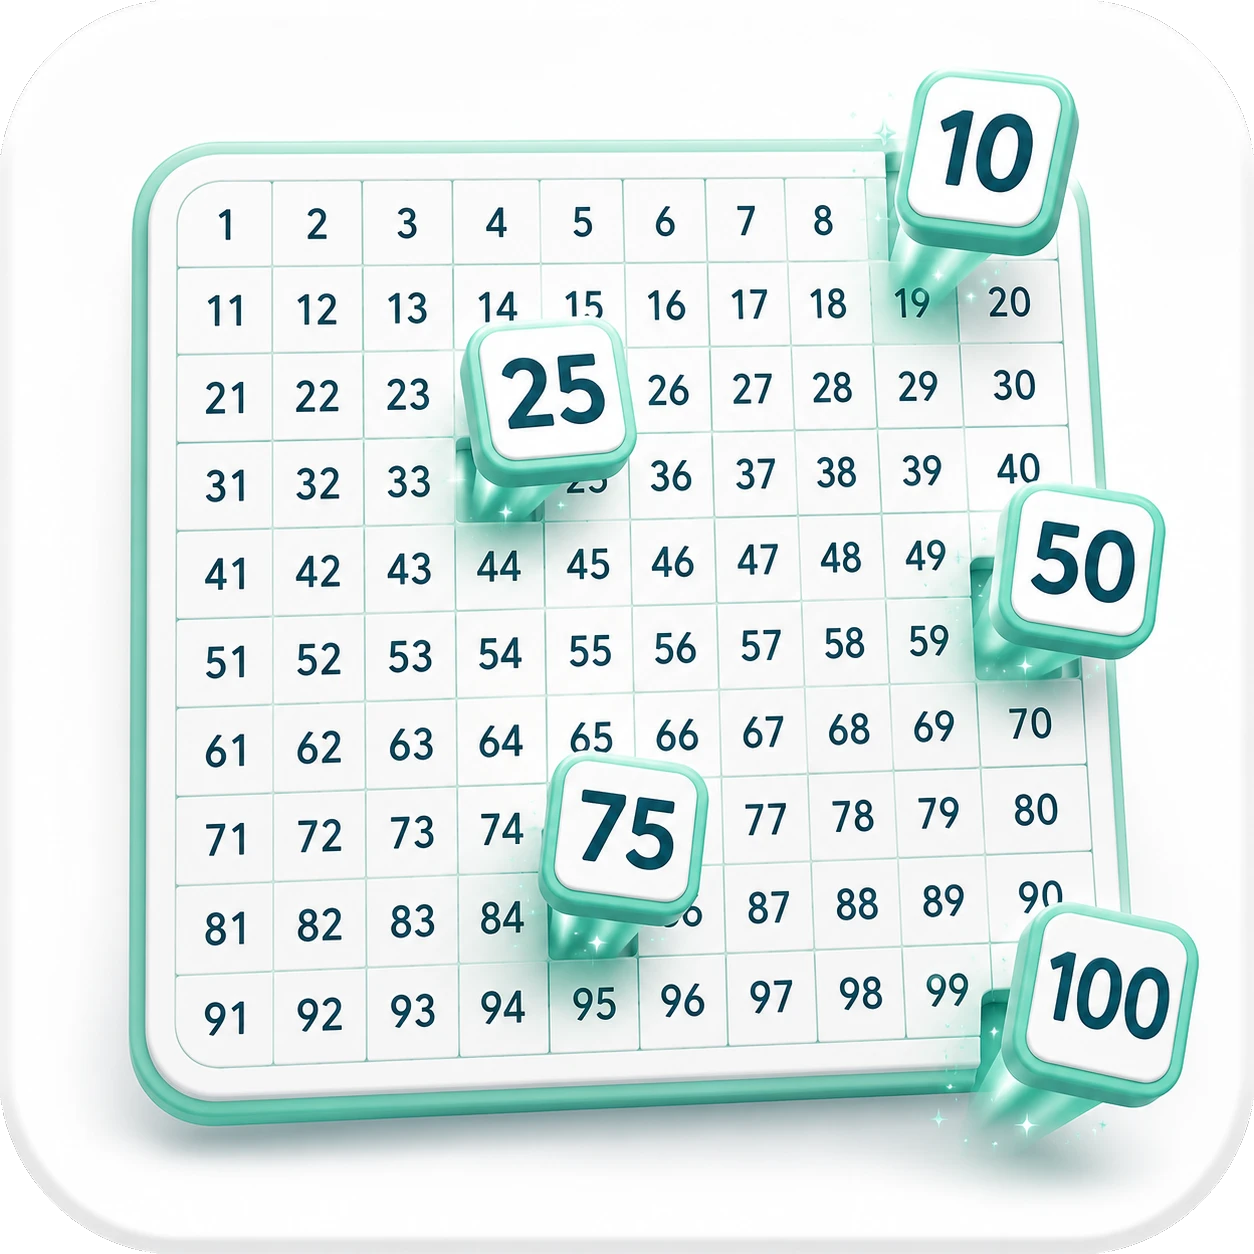
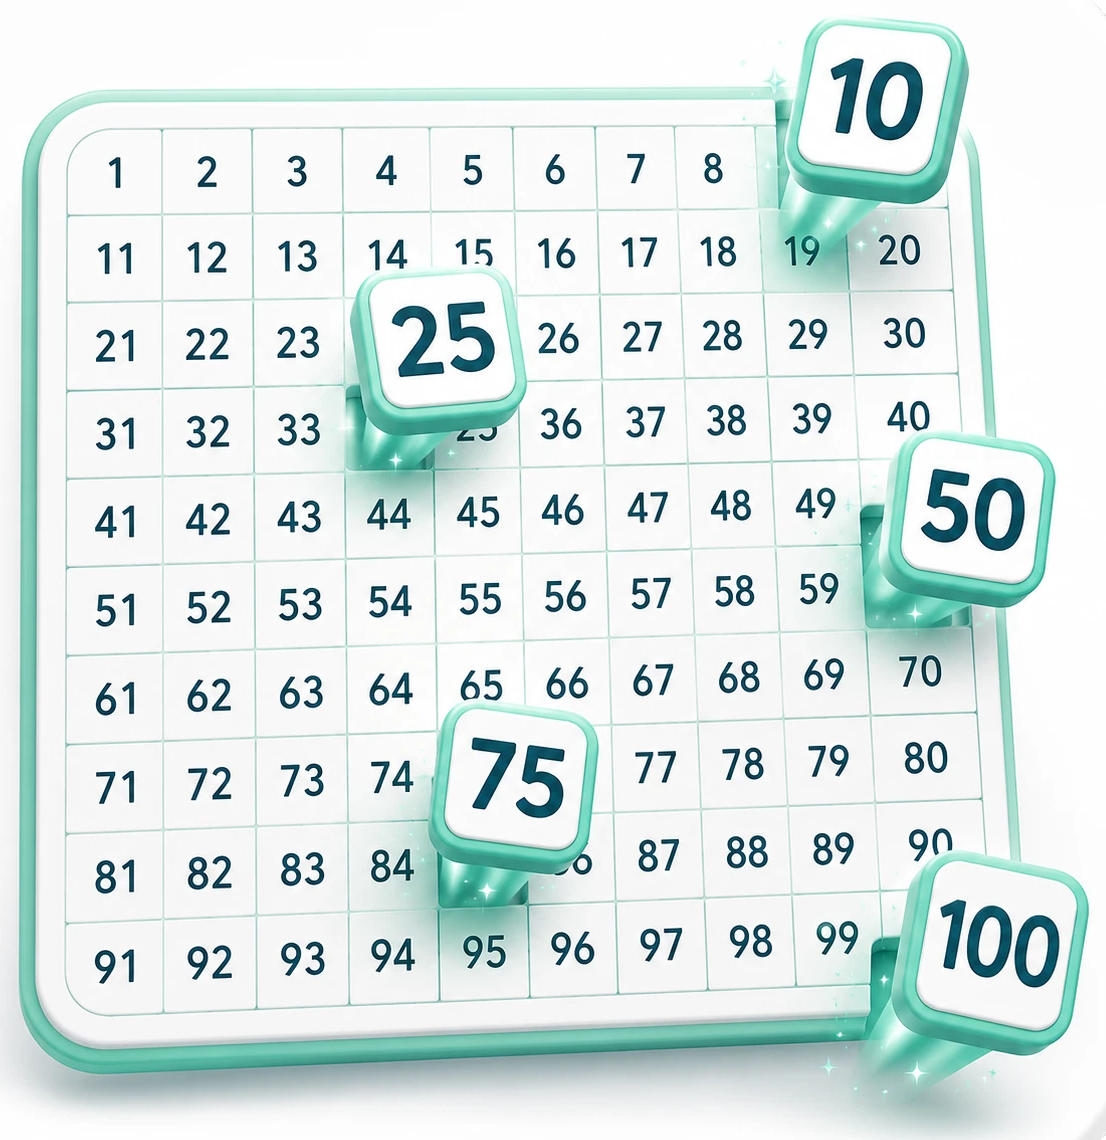
תמונת שעון + חיתוך השוליים של "מספרים עד 100"
- images/topics/clock.png — האיור של אורי לשעון
- לתמונת המספרים היה כרטיס לבן עם צל שנראה כמסגרת על הרקע;
  tools/trim-topic-image.py מוצא את התיבה החוסמת של התוכן הצבעוני
  (מתעלם מאפור וצל), משאיר שוליים 1.5% וחותך — האיור עצמו לא נגע
  ועכשיו הוא גם גדול יותר באריח

diff --git a/tools/trim-topic-image.py b/tools/trim-topic-image.py
@@ -1,0 +1,58 @@
+#!/usr/bin/env python3
+"""חותך את השוליים הריקים של איור-נושא — כדי שלא תיראה מסגרת/צל סביבו.
+
+מוצא את התיבה החוסמת של התוכן הצבעוני (מתעלם מאפור-בהיר וצל),
+משאיר שוליים קטנים, וחותך. האיור עצמו לא נגע — רק הרווח סביבו.
+
+שימוש:  trim-topic-image.py <קובץ.png> [שוליים%]
+"""
+import sys
+from PIL import Image
+
+MARGIN_PCT = 1.5  # שוליים שנשארים סביב התוכן
+
+
+def main(path, margin_pct=MARGIN_PCT):
+    im = Image.open(path).convert("RGB")
+    w, h = im.size
+    px = im.load()
+
+    minx, miny, maxx, maxy = w, h, 0, 0
+    for y in range(0, h, 2):
+        for x in range(0, w, 2):
+            r, g, b = px[x, y]
+            sat = max(r, g, b) - min(r, g, b)
+            if sat > 18 or min(r, g, b) < 150:  # צבע ממשי או כהה — לא צל אפור
+                if x < minx: minx = x
+                if x > maxx: maxx = x
+                if y < miny: miny = y
+                if y > maxy: maxy = y
+
+    if maxx <= minx or maxy <= miny:
+        print("לא נמצא תוכן — לא שונה דבר")
+        return 0
+
+    m = int(min(w, h) * margin_pct / 100)
+    left = max(0, minx - m)
+    top = max(0, miny - m)
+    right = min(w, maxx + m)
+    bottom = min(h, maxy + m)
+
+    if (left, top, right, bottom) == (0, 0, w, h):
+        print("אין שוליים לחתוך — לא שונה דבר")
+        return 0
+
+    im.crop((left, top, right, bottom)).save(path, "PNG")
+    print(
+        f"נחתך: {w}x{h} → {right-left}x{bottom-top}  "
+        f"(שמאל {left}px · עליון {top}px · ימין {w-right}px · תחתון {h-bottom}px)"
+    )
+    return 0
+
+
+if __name__ == "__main__":
+    if len(sys.argv) < 2:
+        print("שימוש: trim-topic-image.py <קובץ.png> [שוליים%]")
+        sys.exit(1)
+    pct = float(sys.argv[2]) if len(sys.argv) > 2 else MARGIN_PCT
+    sys.exit(main(sys.argv[1], pct))
